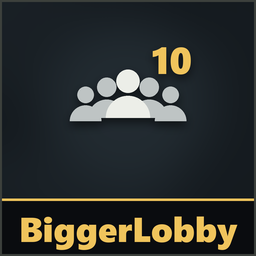
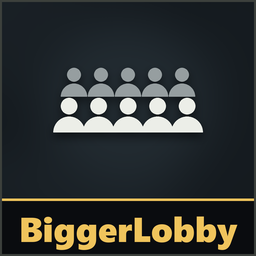
Release BiggerLobby 1.5.7

Changed region(s): [[0.1875, 0.1562, 0.8125, 0.5312]]

diff --git a/tools/icons.py b/tools/icons.py
@@ -45,9 +45,11 @@ def person(d, x, y, s, fill):
 
 
 def biggerlobby(d, cx, cy):
-    for i, (dx, s) in enumerate([(-170, 150), (170, 150), (-85, 175), (85, 175), (0, 210)]):
-        person(d, cx + dx, cy + (30 if s < 160 else 10 if s < 200 else 0), s, WHITE if s == 210 else (190, 196, 196))
-    d.text((cx + 175, cy - 175), "10", font=font("seguibl.ttf", 150), fill=GOLD, anchor="mm")
+    # 10 players: a back row of 5 (smaller, dimmer) behind a front row of 5.
+    for i in range(5):
+        person(d, cx - 216 + i * 108, cy - 60, 125, (150, 158, 160))
+    for i in range(5):
+        person(d, cx - 236 + i * 118, cy + 75, 150, WHITE)
 
 
 def pscontroller(d, cx, cy):

diff --git a/README.md b/README.md
@@ -19,7 +19,7 @@ To install by hand instead: install [MelonLoader](https://github.com/LavaGang/Me
 
 | Patch | Version | Host | Player | What it does |
 |---|---|---|---|---|
-| [BiggerLobby](BiggerLobby/) | 1.5.6 | Yes | For the 10-player UI | 10-player lobbies, with UI for 10 and difficulty that scales with player count |
+| [BiggerLobby](BiggerLobby/) | 1.5.7 | Yes | For the 10-player UI | 10-player lobbies, with UI for 10 and difficulty that scales with player count |
 | [PSController](PSController/) | 1.5.4 | Optional | Optional | PlayStation button icons instead of Xbox ones |
 | [SpectatorCam](SpectatorCam/) | 1.3.3 | Optional | Optional | Free spectator camera, limited to the area around the player you're watching |
 | [Minimap](Minimap/) | 1.6.5 | Optional | Optional | Minimap: explored or full map, plain or graphic, optional players/monsters/items |

diff --git a/BiggerLobby/CHANGELOG.md b/BiggerLobby/CHANGELOG.md
@@ -1,5 +1,8 @@
 # BiggerLobby changelog
 
+## 1.5.7
+- New icon: 10 players
+
 ## 1.5.6
 - In-game Update reuses the installer already on your PC, so updating only downloads the small patch files (much faster)
 

diff --git a/BiggerLobby/README.md b/BiggerLobby/README.md
@@ -2,7 +2,7 @@
 
 <p align="center"><img src="icon.png" width="160"></p>
 
-**Version 1.5.6**
+**Version 1.5.7**
 
 Lobbies hold **10 players**, with the UI and difficulty adjusted to match.
 
